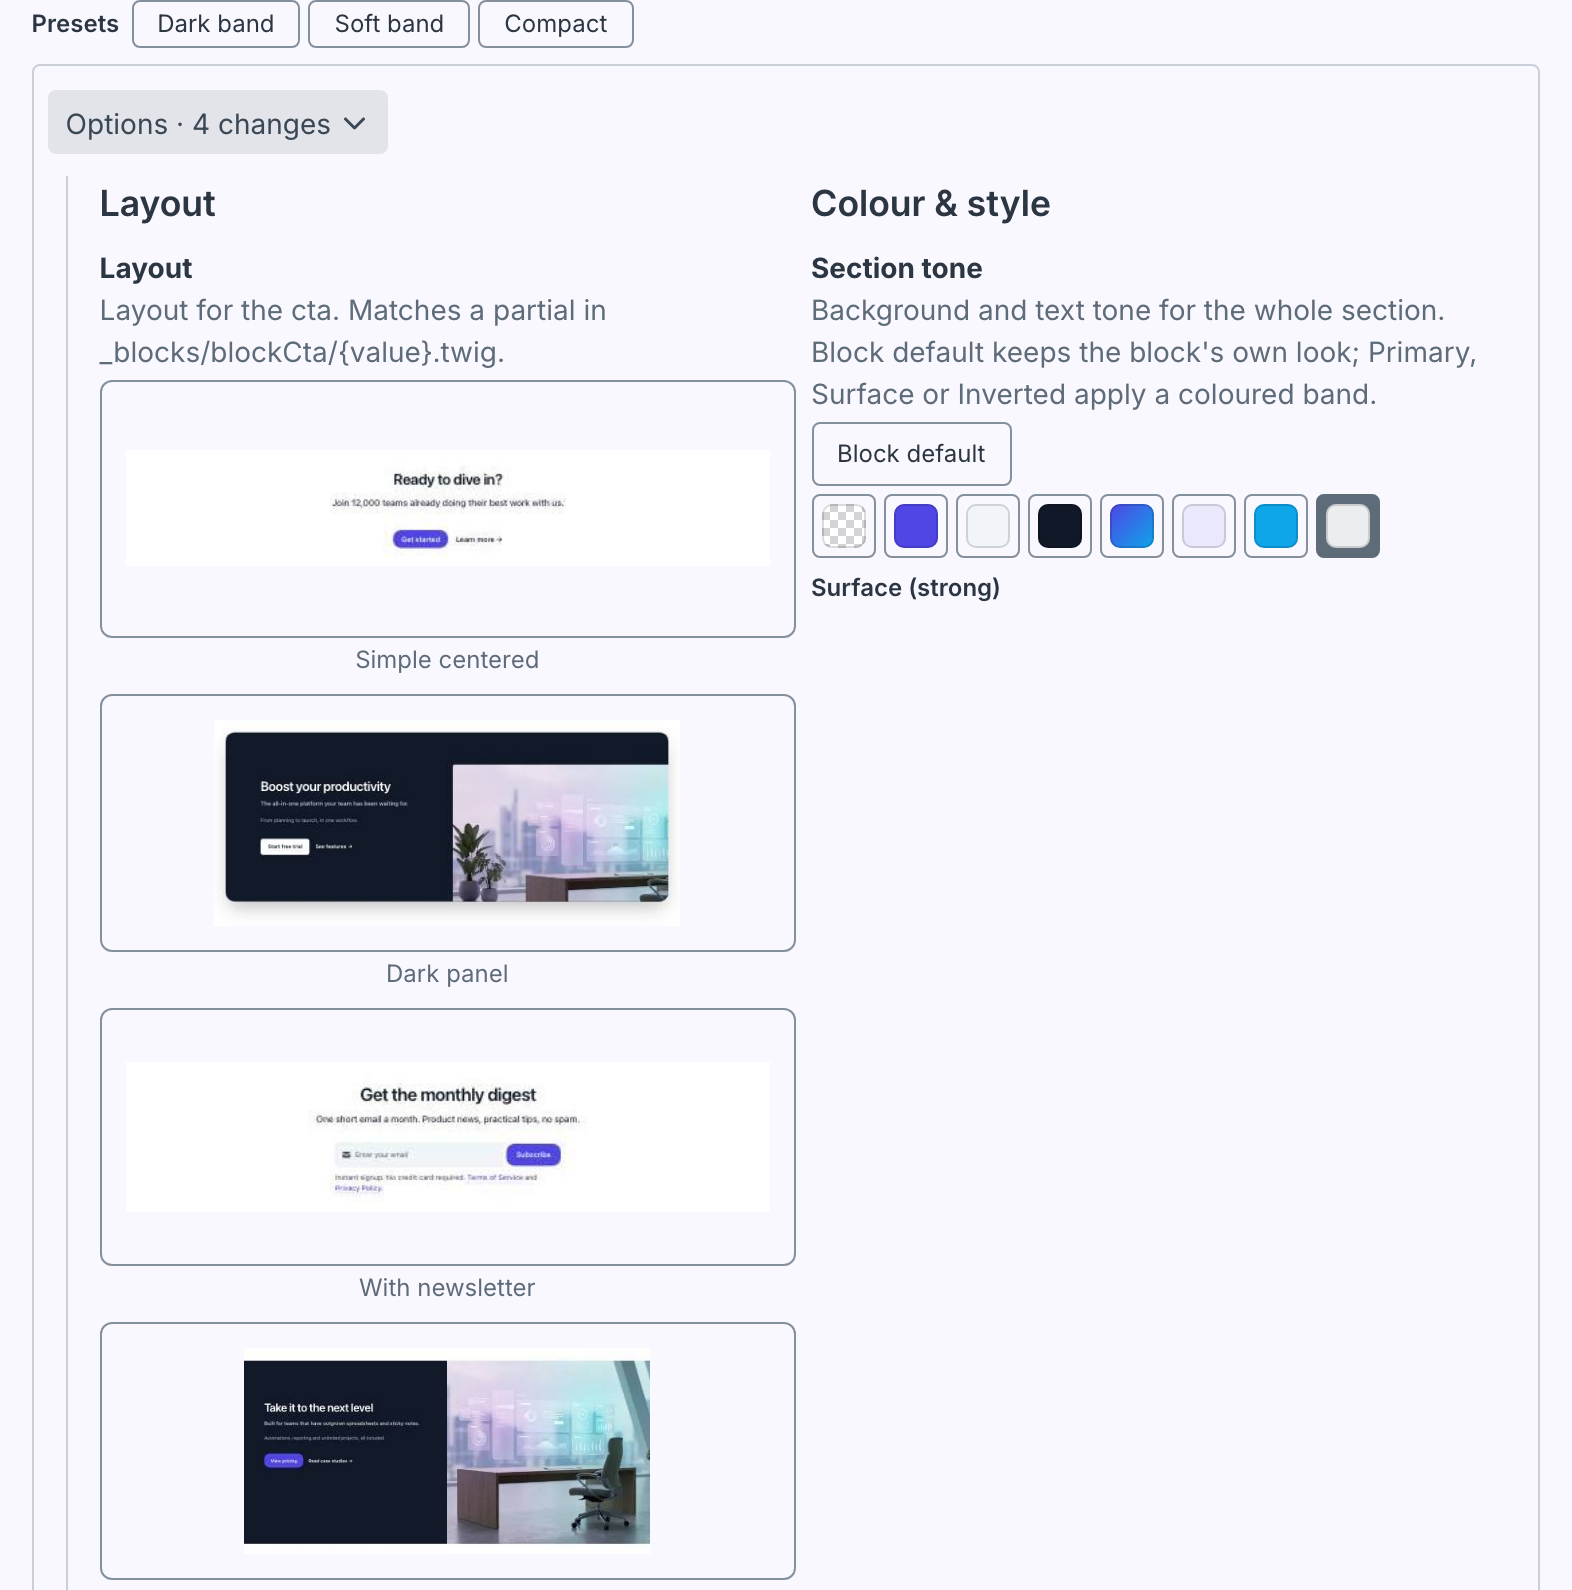
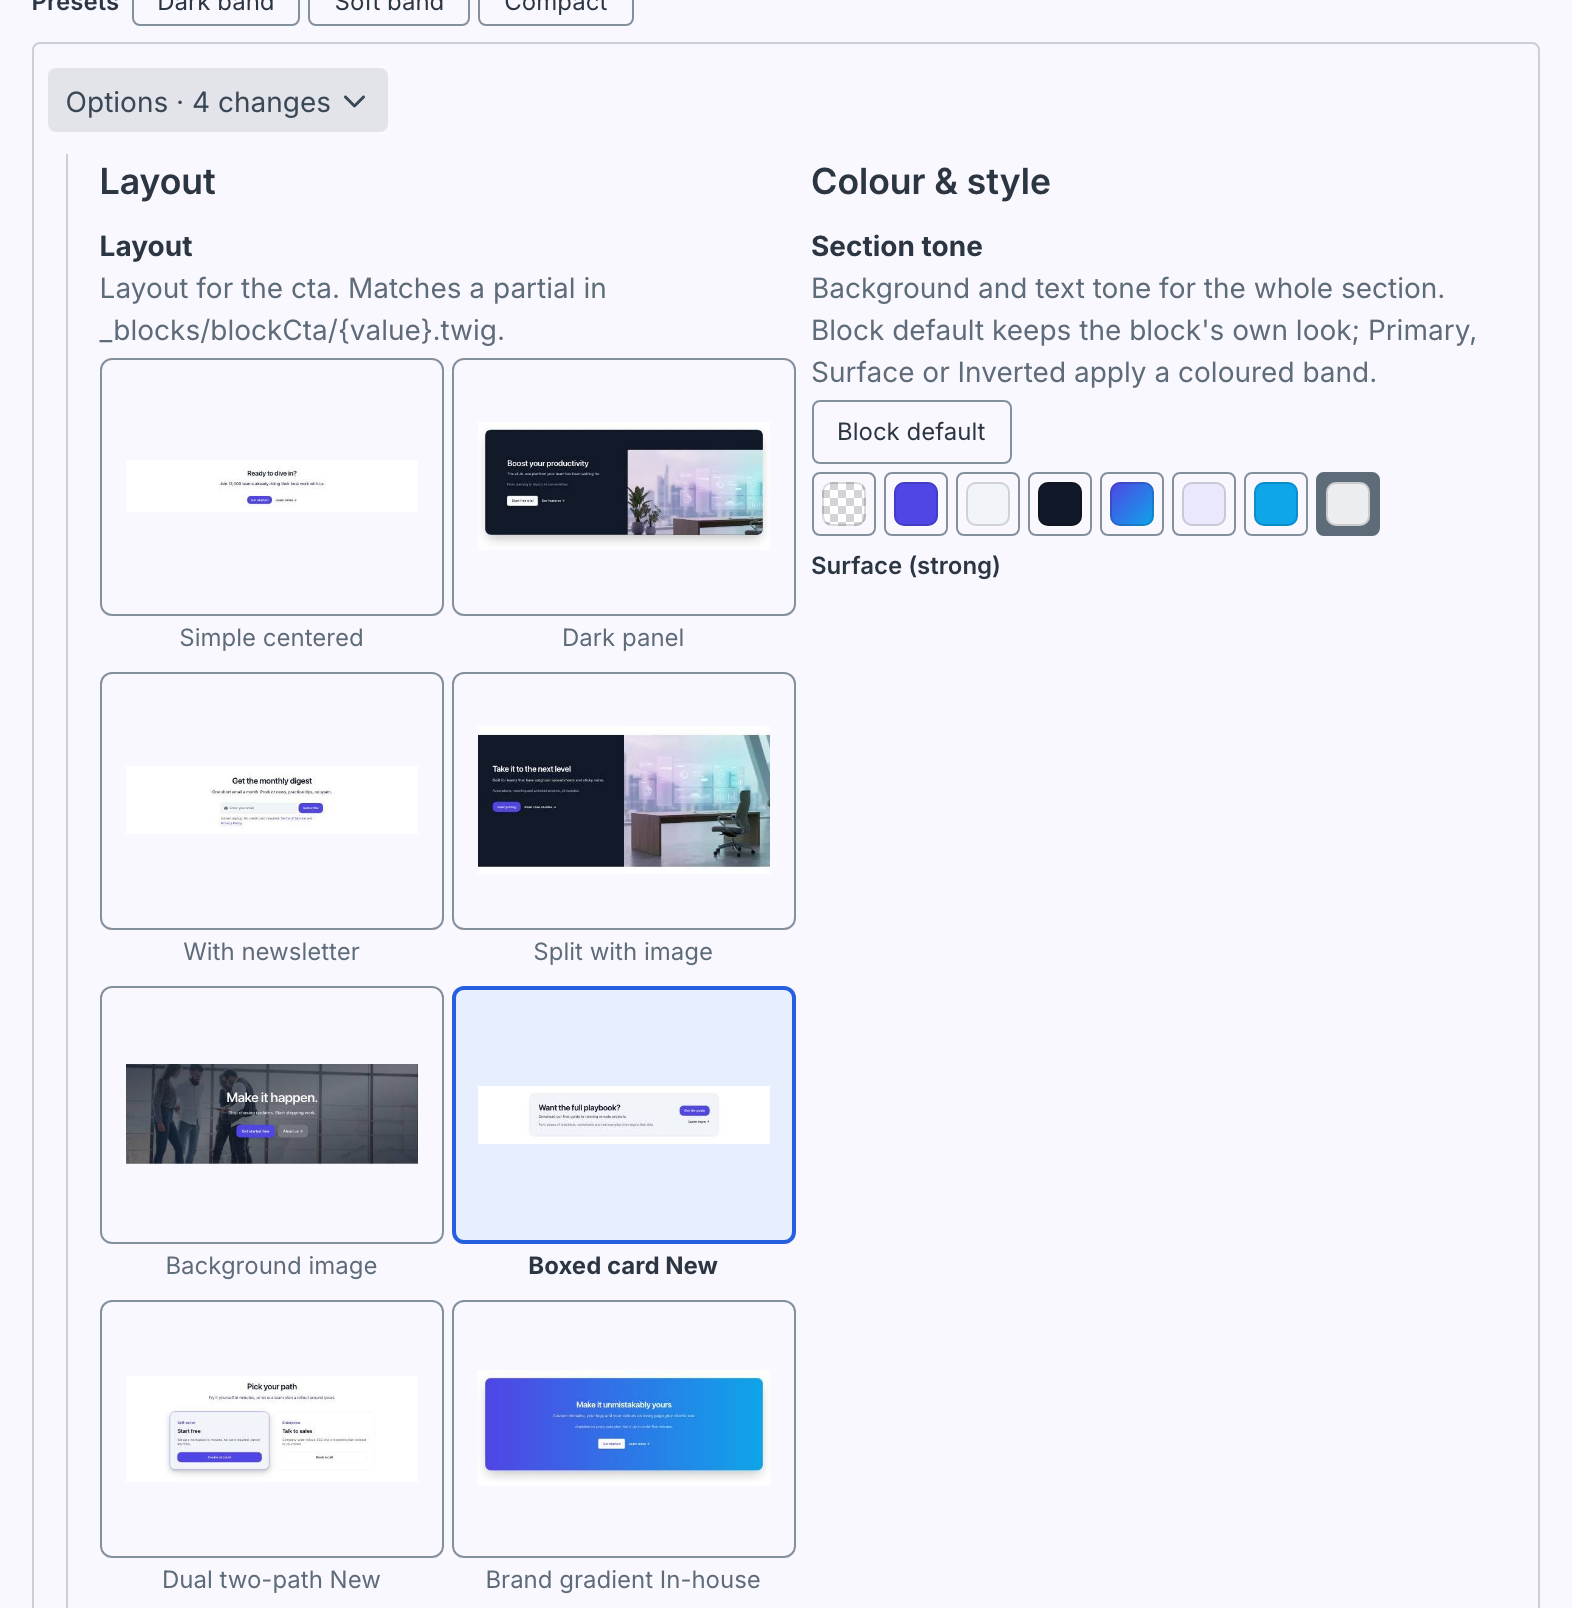
fix(cp): two layout pictures per row in a narrow column

diff --git a/src/web/assets/tiles/dist/option-looks.css b/src/web/assets/tiles/dist/option-looks.css
@@ -24,8 +24,11 @@ craft-radio[data-button]:has(.df-label--drawn){padding-inline:5px}
  * 60px high, so a 480x338 layout shot showed 85px wide. At 103px high it is 146px wide,
  * as in the Craft 5 picker. The group sizes its row from the card's max size, so all
  * three of Craft's card sizes are set here, on the group, and the cards inherit them.
+ * The smallest card is 160px, not 172px: with sections side by side a column is about
+ * 348px on a laptop, where two 172px cards and their gap miss fitting by 4px and Craft
+ * lays one stretched card per row (ten layouts made the panel 2,500px tall).
  */
-craft-radio-group:has(craft-radio[data-card]>img[slot=icon][src$="#df-tile"]){--c-radio-card-min-size:172px;--c-radio-card-max-size:172px;--c-radio-card-icon-size:103px}
+craft-radio-group:has(craft-radio[data-card]>img[slot=icon][src$="#df-tile"]){--c-radio-card-min-size:160px;--c-radio-card-max-size:172px;--c-radio-card-icon-size:103px}
 
 /* Width bars: filled to the choice's width. */
 .df-bar{display:inline-block;flex:none;width:28px;height:8px;overflow:hidden;border-radius:2px;background:color-mix(in srgb,currentColor 20%,transparent)}

diff --git a/CHANGELOG.md b/CHANGELOG.md
@@ -21,6 +21,7 @@
 - "Aa" samples (`sample`) show at their font size in the button again, and count as narrow buttons when the field picks buttons or a dropdown.
 
 ### Fixed
+- Layout pictures in a narrow column (sections side by side on a laptop screen) showed one stretched picture per row, which made a block with ten layouts about 2,500px tall. Two fit in a row now.
 - The config file is read once per request. Building the options read it again for every layout picture it looked up (about 65 times on a site with many blocks), which cost about 125 ms on each request that shows a Design value, and memory that a long-running process such as a test suite never got back.
 - A section whose options all wait for another choice (Colour & style and Spacing on an image block with the caption layout) no longer shows its heading over an empty area; it comes back with its options when the layout changes.
 
